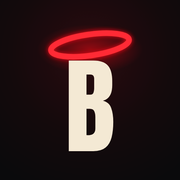
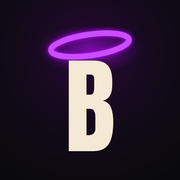
Ícone do app em lilás

Changed region(s): [[0.1944, 0.0556, 0.8056, 0.5], [0.4722, 0.4167, 0.5278, 0.5278]]

diff --git a/index.html b/index.html
@@ -11,8 +11,8 @@
 <meta name="apple-mobile-web-app-title" content="Blessed">
 <link rel="manifest" href="manifest.json">
 <link rel="icon" type="image/png" sizes="192x192" href="img/icon-192.png">
-<link rel="apple-touch-icon" sizes="180x180" href="apple-touch-icon.png">
-<link rel="apple-touch-icon-precomposed" sizes="180x180" href="apple-touch-icon.png">
+<link rel="apple-touch-icon" sizes="180x180" href="apple-touch-icon.png?v=lilas">
+<link rel="apple-touch-icon-precomposed" sizes="180x180" href="apple-touch-icon.png?v=lilas">
 <style>
 :root{color-scheme:dark;padding-top:env(safe-area-inset-top,0px);padding-bottom:env(safe-area-inset-bottom,0px)}
 body{margin:0;font:14px system-ui,-apple-system,sans-serif}
@@ -1901,10 +1901,10 @@ function miniClick(a, b){
 }
 /* ---------- ícone do Blessed (B com auréola), o mesmo do app instalado ---------- */
 const BL_ICON = `<svg class="bl-ic" viewBox="0 0 512 512" aria-hidden="true"><defs>
-  <radialGradient id="blbg" cx="50%" cy="30%" r="80%"><stop offset="0" stop-color="#2B0B0F"/><stop offset=".55" stop-color="#140A0C"/><stop offset="1" stop-color="#0A0A0C"/></radialGradient>
-  <radialGradient id="blglow" cx="50%" cy="50%" r="50%"><stop offset="0" stop-color="#E50914" stop-opacity=".55"/><stop offset="1" stop-color="#E50914" stop-opacity="0"/></radialGradient></defs>
+  <radialGradient id="blbg" cx="50%" cy="30%" r="80%"><stop offset="0" stop-color="#250934"/><stop offset=".55" stop-color="#120A18"/><stop offset="1" stop-color="#0A0A0C"/></radialGradient>
+  <radialGradient id="blglow" cx="50%" cy="50%" r="50%"><stop offset="0" stop-color="#B70CFF" stop-opacity=".55"/><stop offset="1" stop-color="#B70CFF" stop-opacity="0"/></radialGradient></defs>
   <rect width="512" height="512" rx="112" fill="url(#blbg)"/><ellipse cx="256" cy="140" rx="150" ry="70" fill="url(#blglow)"/>
-  <ellipse cx="256" cy="128" rx="112" ry="30" fill="none" stroke="#FF2A35" stroke-width="18" transform="rotate(-8 256 128)"/>
+  <ellipse cx="256" cy="128" rx="112" ry="30" fill="none" stroke="#CA4EFF" stroke-width="18" transform="rotate(-8 256 128)"/>
   <text x="256" y="430" text-anchor="middle" font-family="Anton,Impact,sans-serif" font-size="300" fill="#F4E9D4">B</text></svg>`;
 /* ---------- comunidade: rede social dos músicos (só no site, com login) ----------
    Aberta para músicos de qualquer igreja: quem tem conta (mesmo aguardando aprovação da equipe) cria o perfil,

diff --git a/sw.js b/sw.js
@@ -1,7 +1,7 @@
 // Guarda o app para abrir sem internet. Página e histórias: internet primeiro (pega atualizações).
-const CACHE = "cifra-campo-202610142335";
+const CACHE = "cifra-campo-202610142347";
 const BIBLE_CACHE = "blessed-biblia-blivre-2018";
-const FILES = ["./", "index.html", "tema-vidro.css?v=20261014-lilas", "manifest.json", "info.json", "img/icon-192.png", "img/icon-512.png", "img/apple-touch-icon.png"];
+const FILES = ["./", "index.html", "tema-vidro.css?v=20261014-lilas", "manifest.json", "info.json", "img/icon-192.png?v=lilas", "img/icon-512.png?v=lilas", "img/apple-touch-icon.png"];
 self.addEventListener("install", e => { e.waitUntil(caches.open(CACHE).then(c => c.addAll(FILES)).then(() => self.skipWaiting())); });
 self.addEventListener("activate", e => {
   // a Bíblia fica num cache próprio que não é apagado a cada versão (o texto não muda)
